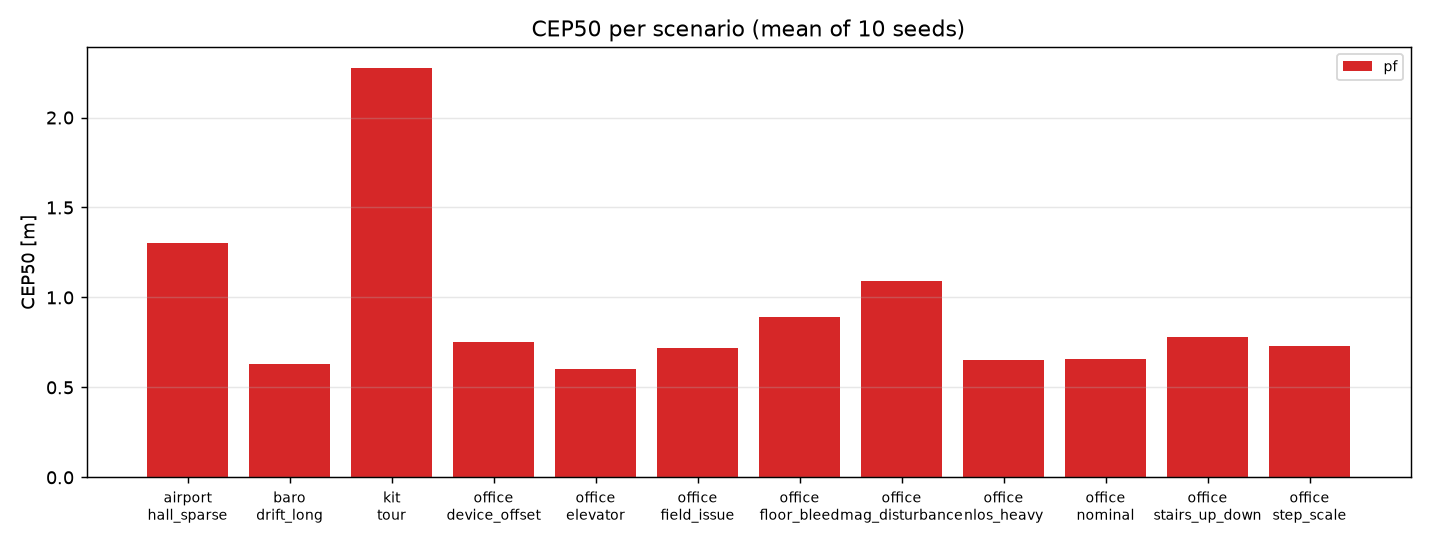
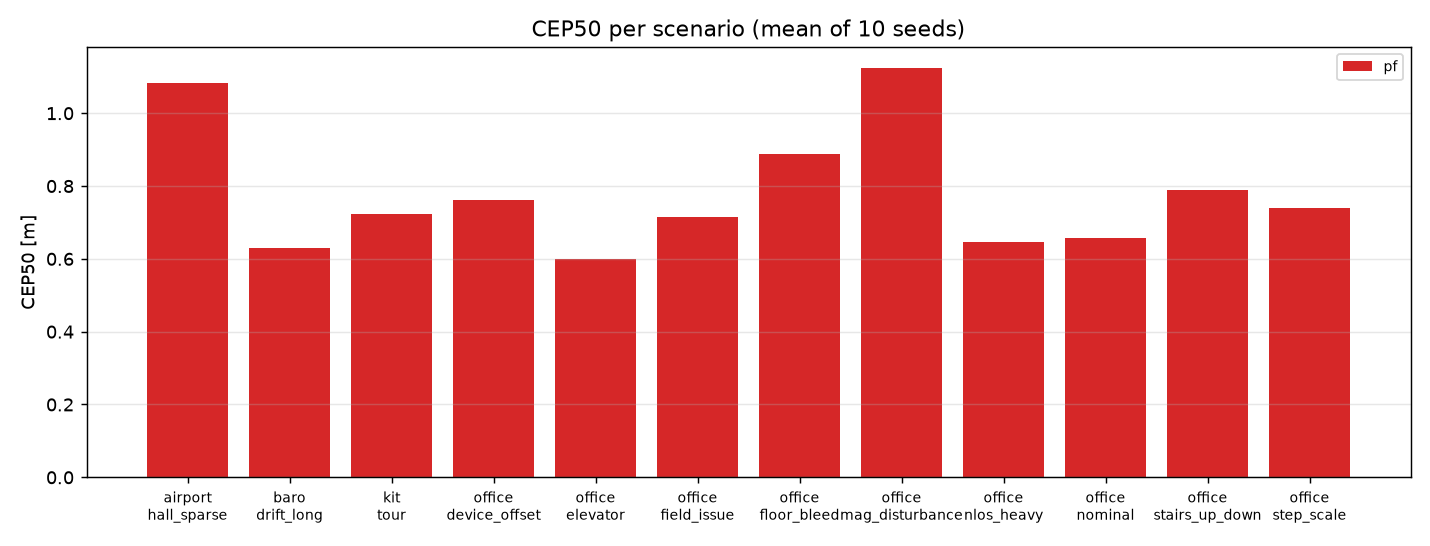
Turn the beacon-driven start on by itself when the cloud is sparse
pf.init_proposal_auto_density (default 0.6): with init_proposal off, the
init proposal is used when there are fewer than 0.6 particles per m^2 of
walkable area over all levels. Small offices (0.78-1.56 per m^2) keep the
uniform start that suits them; the airport hall (0.47) and KIT (0.09) get
the ring seed.

10 seeds: airport_hall_sparse CEP50/CEP95 1.30/7.26 -> 1.08/5.71 m and
convergence 70.5 -> 47.9 s; kit_tour 2.31/11.11 -> 0.72/3.52 m, 10/10
runs converge, floor accuracy 93.9 -> 98.9%. Every other scenario is
unchanged. Default config on the real tune walks: MSIL median
20.4/28.5 -> 9.6/12.5 m, UMinho 17.9/36.7 -> 13.8/22.4 m. msil_wifi.json
and ipin.json already set init_proposal, so the real-data gates are
unaffected.

tests/regression/baseline.json is regenerated to lock in the gains; it
also picks up the small moves of the floor hysteresis and track smoother
(all within the old tolerance) and the new ungated smoothness fields.

diff --git a/eval/src/eval.cpp b/eval/src/eval.cpp
@@ -25,11 +25,11 @@ NLOHMANN_DEFINE_TYPE_NON_INTRUSIVE_WITH_DEFAULT(
     heading_outlier_prob, map_consistent_estimate, level_smoothing_s, level_hysteresis, estimate_rssi_offset,
     rssi_offset_sigma, rssi_offset_walk, beacon_integrity, integrity_threshold_db, integrity_alpha,
     integrity_min_samples, integrity_max_sigma_m, resample_ess_ratio, roughening_m, recovery, recovery_alpha_slow,
-    recovery_alpha_fast, recovery_max_fraction, init_proposal, init_proposal_fraction, init_window_s, recovery_proposal,
-    proposal_history, proposal_max_age_s, proposal_level_jump, level_change_prob_step, level_change_prob_baro,
-    baro_update_interval_s, baro_sigma_m, baro_outlier_prob, baro_offset_sigma_m, baro_offset_walk_m, baro_jump,
-    baro_jump_radius_m, baro_jump_hold_s, baro_jump_prob, baro_reseed_keep_reference, floor_prior_weight, floor_prior_k,
-    floor_prior_eps, floor_prior_max_age_s)
+    recovery_alpha_fast, recovery_max_fraction, init_proposal, init_proposal_auto_density, init_proposal_fraction,
+    init_window_s, recovery_proposal, proposal_history, proposal_max_age_s, proposal_level_jump, level_change_prob_step,
+    level_change_prob_baro, baro_update_interval_s, baro_sigma_m, baro_outlier_prob, baro_offset_sigma_m,
+    baro_offset_walk_m, baro_jump, baro_jump_radius_m, baro_jump_hold_s, baro_jump_prob, baro_reseed_keep_reference,
+    floor_prior_weight, floor_prior_k, floor_prior_eps, floor_prior_max_age_s)
 NLOHMANN_DEFINE_TYPE_NON_INTRUSIVE_WITH_DEFAULT(TrackSmootherConfig, enabled, tau_s, max_correction_mps, snap_m,
                                                 extrapolate_steps, max_step_interval_s)
 NLOHMANN_DEFINE_TYPE_NON_INTRUSIVE_WITH_DEFAULT(RoomEventConfig, enter_prob, exit_prob, enter_dwell_s, exit_dwell_s,

diff --git a/core/include/ipe/particle_filter.hpp b/core/include/ipe/particle_filter.hpp
@@ -69,6 +69,10 @@ struct ParticleFilterConfig {
   /// mixture of a range ring around that beacon and the uniform prior, with
   /// importance weights so the result is still the exact posterior.
   bool init_proposal = false;
+  /// With `init_proposal` off, turn it on anyway when the cloud is sparse: fewer than this many particles
+  /// per m^2 of walkable area (all levels together). A uniform start samples a small walled office well,
+  /// but not a hall or a mall floor. 0 never turns it on.
+  double init_proposal_auto_density = 0.6;
   double init_proposal_fraction = 0.8;  ///< Share of particles drawn from the ring.
   double init_window_s = 1.0;           ///< Packets collected before seeding; the closest-looking beacon wins.
   /// Recovery injections are drawn from the ring of a recent packet instead
@@ -134,6 +138,8 @@ class ParticleFilter {
   [[nodiscard]] std::uint64_t recovery_count() const { return recovery_count_; }
   [[nodiscard]] bool beacon_excluded(std::size_t beacon_index) const;
   [[nodiscard]] bool radio_seeded() const { return radio_seeded_; }
+  /// Whether the init proposal is in use (`init_proposal`, or chosen by `init_proposal_auto_density`).
+  [[nodiscard]] bool init_proposal_active() const { return cfg_.init_proposal; }
 
   /// Replaces the cloud with draws from the init proposal for one packet and
   /// importance-weights them back to the prior. The packet's likelihood is not

diff --git a/tests/test_particle_filter.cpp b/tests/test_particle_filter.cpp
@@ -572,3 +572,22 @@ TEST(ParticleFilter, FloorPriorPullsTheCloudToTheClassifiedLevel) {
   EXPECT_LT(share[0], 0.01);
   EXPECT_GT(share[1], 1000.0 * share[0]);
 }
+
+TEST(ParticleFilter, InitProposalTurnsOnForSparseClouds) {
+  // two_room_venue: 200 m^2. The two-level venue counts both floors: 400 m^2.
+  const Venue v = test::two_room_venue();
+  const Venue two = test::two_level_venue();
+  auto cfg = test_config();
+  cfg.init_proposal_auto_density = 0.6;
+  cfg.num_particles = 100;  // 0.5 per m^2
+  EXPECT_TRUE(ParticleFilter(v, cfg, {}).init_proposal_active());
+  cfg.num_particles = 200;  // 1.0 per m^2 here, 0.5 per m^2 over both floors
+  EXPECT_FALSE(ParticleFilter(v, cfg, {}).init_proposal_active());
+  EXPECT_TRUE(ParticleFilter(two, cfg, {}).init_proposal_active());
+  cfg.init_proposal_auto_density = 0.0;
+  cfg.num_particles = 10;
+  EXPECT_FALSE(ParticleFilter(v, cfg, {}).init_proposal_active());
+  cfg.init_proposal = true;  // set explicitly, on whatever the density
+  cfg.num_particles = 5000;
+  EXPECT_TRUE(ParticleFilter(v, cfg, {}).init_proposal_active());
+}

diff --git a/core/src/particle_filter.cpp b/core/src/particle_filter.cpp
@@ -33,6 +33,11 @@ ParticleFilter::ParticleFilter(const Venue& venue, ParticleFilterConfig cfg, Rss
       level_selector_(cfg.level_smoothing_s, cfg.level_hysteresis) {
   floor_p_.assign(static_cast<std::size_t>(std::max(venue.level_count(), 1)), 1.0);
   cfg_.num_particles = std::max(cfg_.num_particles, 1);
+  if (!cfg_.init_proposal && cfg_.init_proposal_auto_density > 0.0) {
+    double area = 0.0;
+    for (int l = 0; l < venue.level_count(); ++l) area += venue.walkable_area(l);
+    cfg_.init_proposal = area > 0.0 && cfg_.num_particles / area < cfg_.init_proposal_auto_density;
+  }
   level_weight_.resize(static_cast<std::size_t>(std::max(venue.level_count(), 1)));
   if (cfg_.map_consistent_estimate) map_estimate_.emplace(venue, static_cast<std::size_t>(cfg_.num_particles));
   initialize_uniform();

diff --git a/README.md b/README.md
@@ -20,7 +20,7 @@ WebAssembly build that runs the same engine in the browser with a 2D and a 3D (M
 | **Floors** | Venues with levels, stairwells, lifts and escalators; 3D radio distance with slab loss; barometric altitude with low-pass filtering; floor accuracy and floor-switch latency metrics |
 | **Room events** | Named rooms on every shipped map (hand-drawn, from OpenStreetMap, from the mall unit polygons); debounced Enter/Exit events from particle mass in each room, with hysteresis and dwell; scored against ground truth (precision, recall, latency, room accuracy); event log and room highlight in the web demo |
 | **Simulator** | Pure-pursuit walker through a floor plan, up stairs and in lifts; synthesises 50 Hz IMU, BLE with fading, shadowing, wall and slab loss, path-loss mismatch, device offsets, packet loss, magnetic anomalies, dead and moved beacons, and a phone barometer with weather drift, device bias and door spikes |
-| **Replay + metrics** | Mean, RMSE, CEP50, CEP95, availability, time to first fix, convergence time, floor accuracy, floor-switch latency, room-event precision/recall/latency, compute per update |
+| **Replay + metrics** | Mean, RMSE, CEP50, CEP95, availability, time to first fix, convergence time, floor accuracy, floor-switch latency, room-event precision/recall/latency, smoothness of the drawn track (jitter, jumps per minute, floor flips, path ratio), compute per update |
 | **Regression suite** | 12 scenarios x N seeds compared against a stored baseline in CI, plus 109 real phone walks when the dataset is present |
 | **Map interop** | `ipe-import`: GeoJSON (any platform, through a property mapping table) and an IMDF subset in and out, with WGS84 georeferencing |
 | **WebAssembly** | Emscripten/embind build of the unchanged core with a 2D canvas and a 3D MapLibre view, deployed to GitHub Pages |
@@ -33,13 +33,13 @@ sensor update (IMU and BLE averaged) on a desktop CPU. Full table: [docs/results
 
 | Scenario | What it stresses | CEP50 / CEP95 [m] |
 |---|---|---|
-| office_nominal | reference walk | 0.66 / 1.59 |
-| office_nlos_heavy | walls lose 7 dB, map says 3.5 | 0.65 / 1.87 |
-| office_device_offset | phone reads 9 dB low | 0.75 / 2.05 |
-| office_mag_disturbance | magnetic anomalies, gyro bias | 1.09 / 2.60 |
-| office_field_issue | 2 dead beacons, 1 installed 16 m off | 0.72 / 1.98 |
-| office_step_scale | walker's step 17% shorter than modelled | 0.73 / 1.87 |
-| airport_hall_sparse | 80 x 40 m hall, beacons 20 m apart, 35% loss | 1.30 / 7.25 |
+| office_nominal | reference walk | 0.66 / 1.58 |
+| office_nlos_heavy | walls lose 7 dB, map says 3.5 | 0.65 / 1.88 |
+| office_device_offset | phone reads 9 dB low | 0.76 / 2.08 |
+| office_mag_disturbance | magnetic anomalies, gyro bias | 1.13 / 2.65 |
+| office_field_issue | 2 dead beacons, 1 installed 16 m off | 0.71 / 1.98 |
+| office_step_scale | walker's step 17% shorter than modelled | 0.74 / 1.88 |
+| airport_hall_sparse | 80 x 40 m hall, beacons 20 m apart, 35% loss | 1.08 / 5.71 |
 
 ![CEP95 per scenario](docs/img/benchmark_cep95.png)
 
@@ -51,10 +51,10 @@ between the walker reaching the new floor and the estimate following (10 seeds e
 
 | Scenario | What it stresses | CEP50 / CEP95 [m] | Floor ok / switch |
 |---|---|---|---|
-| office_stairs_up_down | stairs up, tour, stairs down | 0.78 / 3.21 | 99.5% / 0.4 s |
-| office_elevator | lift rides: no steps, only pressure changes | 0.60 / 1.76 | 99.5% / 0.4 s |
-| office_floor_bleed | slab loses 4 dB (map says 15): beacons below look close | 0.89 / 4.01 | 96.3% / 1.0 s |
-| baro_drift_long | weather trend -6 hPa/h, phone barometer 2.5 hPa off | 0.63 / 1.99 | 99.5% / 0.4 s |
+| office_stairs_up_down | stairs up, tour, stairs down | 0.79 / 3.26 | 98.9% / 0.8 s |
+| office_elevator | lift rides: no steps, only pressure changes | 0.60 / 1.72 | 99.0% / 0.8 s |
+| office_floor_bleed | slab loses 4 dB (map says 15): beacons below look close | 0.89 / 3.90 | 96.6% / 2.5 s |
+| baro_drift_long | weather trend -6 hPa/h, phone barometer 2.5 hPa off | 0.63 / 1.99 | 99.1% / 0.8 s |
 
 The barometer offset each particle carries is what keeps it right under weather drift: a 6 hPa/h trend is
 50 m of apparent altitude per hour, and the filter still reports the right floor 99.5% of the time. On the
@@ -82,13 +82,14 @@ not work and the ablation of that cost, is in [docs/experiments.md](docs/experim
 
 ### Beacon-driven start for open halls
 
-In the airport hall, the filter took ~70 s to converge from a uniform start over 3200 m^2. An opt-in
-proposal seeds the cloud from a range ring around the closest-looking beacon, with importance weights
-so the posterior is unchanged. It cuts convergence to 41 s and CEP95 from 7.3 to 5.4 m (20 seeds),
-and helps the two-floor walks. In the small walled offices it slows convergence by a few seconds, so
-it is not on by default. [`data/configs/open_venue.json`](data/configs/open_venue.json) enables it; the
-numbers, the ablation and the variants that failed are experiment 4 in
-[docs/experiments.md](docs/experiments.md).
+In the airport hall, the filter took ~70 s to converge from a uniform start over 3200 m^2. A proposal
+seeds the cloud from a range ring around the closest-looking beacon, with importance weights so the
+posterior is unchanged. It cuts convergence to 41 s and CEP95 from 7.3 to 5.4 m (20 seeds). In the small
+walled offices, where 1500 particles already cover the floor densely, it slows convergence by a few
+seconds. So the filter turns it on by itself when the cloud is sparse, under 0.6 particles per m^2 of
+walkable area (`pf.init_proposal_auto_density`): the airport hall and the KIT building, not the offices
+(experiments 4 and 9 in [docs/experiments.md](docs/experiments.md)).
+[`data/configs/open_venue.json`](data/configs/open_venue.json) turns it on everywhere.
 
 ### Real phone traces
 
@@ -135,13 +136,13 @@ plan, checked by `ipe-sim` for wall crossings), and the phone is simulated. Mean
 
 | Particle filter | CEP50 / CEP95 [m] | Converged |
 |---|---|---|
-| Default config | 2.28 / 11.02 | 9/10 |
-| [Open-venue config](data/configs/open_venue.json) (beacon-driven start) | **0.71** / **3.44** | 10/10 |
+| Before the automatic beacon-driven start (experiment 9) | 2.28 / 11.02 | 9/10 |
+| Default config (beacon-driven start, chosen by particle density) | **0.72** / **3.52** | 10/10 |
 
 The L-shaped building covers 38% of its bounding box. The building outline is the venue's
 [`footprint`](docs/formats.md#venue-datavenuesjson), so the particle filter starts, recovers and keeps
-particles only inside it. With the open-venue config every run converges (CEP50 0.5-1.0 m, CEP95
-1.6-6.9 m). Before the footprint, particles were drawn anywhere in the bounds. Then 3 of 10 runs locked
+particles only inside it. With the beacon-driven start every run converges (CEP50 0.5-1.1 m, CEP95
+1.7-7.0 m). Before the footprint, particles were drawn anywhere in the bounds. Then 3 of 10 runs locked
 onto a spot up to 61 m away, outside the building, and the outline walls kept them there: CEP50 2.68 m and
 CEP95 14.60 m, and the default PF reached 2.94 / 29.16 m. The synthetic venues fill their bounds and have
 no footprint, so their results are bit-identical. The web demo plays this walk with the open-venue config.

diff --git a/docs/experiments.md b/docs/experiments.md
@@ -322,11 +322,53 @@ Real tune walks:
 once per step. Extrapolation would fix that if the step timing were known better; for now it is a setting
 (`smoothing.extrapolate_steps`).
 
+## 9. Choosing the beacon-driven start automatically
+
+**Question.** Experiment 4 left the init proposal opt-in. It fixes large venues and slows small walled
+offices. Can the filter tell the two apart by itself?
+
+**Change.** `pf.init_proposal_auto_density`: with `init_proposal` off, the proposal is used when the
+cloud has fewer than this many particles per m^2 of walkable area, all levels together. The reasoning in
+experiment 4 was that 1500 particles over a 40 x 24 m office (1.56 per m^2) already sample a uniform
+start well. The shipped venues:
+- 1.56 per m^2: the single-floor offices;
+- 0.78: the two-floor offices;
+- 0.47: the airport hall;
+- 0.09: KIT, 7 levels;
+- well below 0.5: the malls and the IPIN buildings at 1500 particles.
+
+**Results** (10 seeds; the other scenarios are identical at both thresholds because they stay above them):
+
+| Scenario | off | 0.6 per m^2 | 1.0 per m^2 |
+|---|---:|---:|---:|
+| airport_hall_sparse, CEP50 / CEP95, converged | 1.30 / 7.26, 70.5 s | **1.08 / 5.71, 47.9 s** | same as 0.6 |
+| kit_tour | 2.31 / 11.11, 9/10 runs, floor 93.9% | **0.72 / 3.52, 10/10, floor 98.9%** | same as 0.6 |
+| baro_drift_long | 0.63 / 1.99 | (off) | 0.61 / 1.70 |
+| office_stairs_up_down | 0.79 / 3.26 | (off) | 0.71 / 2.41 |
+| office_elevator | 0.60 / 1.72 | (off) | 0.74 / 2.76 |
+| office_floor_bleed | 0.89 / 3.90 | (off) | 0.99 / 5.25 |
+
+At 1.0 the two-floor offices split, as they did in experiment 4. At 0.6 only the two large venues change,
+and both gain a lot. KIT gets the same numbers as `open_venue.json`.
+
+Real tune walks with the default config (no `--config`, 1500 particles; median CEP50 / CEP95 [m]):
+
+| Data | off | 0.6 per m^2 |
+|---|---:|---:|
+| MSIL, 109 walks | 20.38 / 28.45 | 9.61 / 12.50 |
+| IPIN Nuremberg, 4 walks | 6.91 / 23.09 | 5.74 / 24.13 (mean CEP95 21.3 -> 30.7) |
+| IPIN UMinho, 23 walks | 17.89 / 36.66 | 13.82 / 22.44 |
+
+`msil_wifi.json` and `ipin.json` already set `init_proposal`, so the real-data gates do not change.
+
+**Kept.** 0.6 particles per m^2 by default. With two venue types above the threshold and two below it,
+this is still a coarse rule: a venue between 0.6 and 1.0 (a large two-floor office, for example) gets
+the uniform start, which experiment 4 found mixed there.
+
 ## Open questions
 
-- The beacon-driven init proposal (experiment 4) fixes the airport hall but slows small walled offices.
-  Choosing it automatically, for example from particle density per level or from the ring's share of
-  the venue, needs more than two venue types to tune on without overfitting. A wall-aware ring
-  (rejection sampling against the full likelihood) is the other candidate.
+- The beacon-driven init proposal is now chosen by particle density (experiment 9), but venues between
+  0.6 and 1 particle per m^2 are where it is mixed. A wall-aware ring (rejection sampling against the
+  full likelihood) might remove the office cost and let it be on everywhere.
 - `office_nlos_heavy`: the wall-aware model assumes 3.5 dB per wall while the truth is 7 dB; estimating
   wall loss online (per venue) is a natural next state to add.

diff --git a/docs/results.md b/docs/results.md
@@ -1,14 +1,14 @@
 | Scenario | Filter | Mean [m] | CEP50 [m] | CEP95 [m] | Coverage95 | Converged in [s] | Floor ok | Floor switch [s] | Floor flips / changes | Jitter p95 [m] | Jumps/min | Path ratio | us/update |
 |---|---|---:|---:|---:|---:|---:|---:|---:|---:|---:|---:|---:|---:|
-| airport_hall_sparse | pf | 2.47 | 1.30 | 7.26 | 67% | 70.5 | - | - | - | 0.85 | 0.7 | 1.25 | 37.0 |
-| baro_drift_long | pf | 0.82 | 0.63 | 1.99 | 85% | 13.2 | 99.1% | 0.8 | 4.4 / 4.0 | 0.77 | 1.3 | 1.49 | 79.8 |
-| kit_tour | pf | 3.63 | 2.31 | 11.11 | 51% | 43.6 (9/10) | 93.9% | 0.9 | 4.4 / 3.0 | 1.81 | 3.7 | 2.18 | 117.8 |
-| office_device_offset | pf | 0.94 | 0.76 | 2.08 | 80% | 6.0 | - | - | - | 0.79 | 0.4 | 1.17 | 43.3 |
-| office_elevator | pf | 0.76 | 0.60 | 1.72 | 89% | 1.3 | 99.0% | 0.8 | 2.0 / 2.0 | 0.79 | 1.5 | 1.71 | 75.4 |
-| office_field_issue | pf | 0.88 | 0.71 | 1.98 | 84% | 2.9 | - | - | - | 0.87 | 0.6 | 1.31 | 59.2 |
-| office_floor_bleed | pf | 1.30 | 0.89 | 3.90 | 79% | 8.0 | 96.6% | 2.5 | 3.8 / 2.0 | 2.33 | 3.8 | 2.37 | 93.5 |
-| office_mag_disturbance | pf | 1.26 | 1.13 | 2.65 | 62% | 4.3 | - | - | - | 0.87 | 0.9 | 1.39 | 70.1 |
-| office_nlos_heavy | pf | 0.77 | 0.65 | 1.88 | 88% | 2.6 | - | - | - | 0.82 | 0.5 | 1.25 | 48.7 |
-| office_nominal | pf | 0.75 | 0.66 | 1.58 | 86% | 1.7 | - | - | - | 0.81 | 0.3 | 1.19 | 68.8 |
-| office_stairs_up_down | pf | 1.12 | 0.79 | 3.26 | 76% | 11.6 | 98.9% | 0.8 | 2.0 / 2.0 | 0.80 | 1.7 | 1.57 | 80.7 |
-| office_step_scale | pf | 0.85 | 0.74 | 1.88 | 80% | 2.1 | - | - | - | 0.79 | 0.1 | 1.29 | 69.1 |
+| airport_hall_sparse | pf | 1.97 | 1.08 | 5.71 | 75% | 47.9 | - | - | - | 0.83 | 0.5 | 1.22 | 37.1 |
+| baro_drift_long | pf | 0.82 | 0.63 | 1.99 | 85% | 13.2 | 99.1% | 0.8 | 4.4 / 4.0 | 0.77 | 1.3 | 1.49 | 79.5 |
+| kit_tour | pf | 1.13 | 0.72 | 3.52 | 74% | 15.4 | 98.9% | 0.8 | 3.0 / 3.0 | 0.77 | 1.4 | 1.38 | 118.2 |
+| office_device_offset | pf | 0.94 | 0.76 | 2.08 | 80% | 6.0 | - | - | - | 0.79 | 0.4 | 1.17 | 43.4 |
+| office_elevator | pf | 0.76 | 0.60 | 1.72 | 89% | 1.3 | 99.0% | 0.8 | 2.0 / 2.0 | 0.79 | 1.5 | 1.71 | 75.5 |
+| office_field_issue | pf | 0.88 | 0.71 | 1.98 | 84% | 2.9 | - | - | - | 0.87 | 0.6 | 1.31 | 59.5 |
+| office_floor_bleed | pf | 1.30 | 0.89 | 3.90 | 79% | 8.0 | 96.6% | 2.5 | 3.8 / 2.0 | 2.33 | 3.8 | 2.37 | 93.2 |
+| office_mag_disturbance | pf | 1.26 | 1.13 | 2.65 | 62% | 4.3 | - | - | - | 0.87 | 0.9 | 1.39 | 70.0 |
+| office_nlos_heavy | pf | 0.77 | 0.65 | 1.88 | 88% | 2.6 | - | - | - | 0.82 | 0.5 | 1.25 | 48.9 |
+| office_nominal | pf | 0.75 | 0.66 | 1.58 | 86% | 1.7 | - | - | - | 0.81 | 0.3 | 1.19 | 69.3 |
+| office_stairs_up_down | pf | 1.12 | 0.79 | 3.26 | 76% | 11.6 | 98.9% | 0.8 | 2.0 / 2.0 | 0.80 | 1.7 | 1.57 | 80.6 |
+| office_step_scale | pf | 0.85 | 0.74 | 1.88 | 80% | 2.1 | - | - | - | 0.79 | 0.1 | 1.29 | 68.7 |

diff --git a/docs/design.md b/docs/design.md
@@ -67,13 +67,16 @@ State per particle: position, heading, step-length scale, device RSSI offset.
 - **Recovery**: augmented MCL (`w_slow`/`w_fast`) injects up to 5% uniform particles when the short-term
   likelihood falls below the long-term one. If every particle dies, the cloud is re-seeded around the last
   estimate.
-- **Beacon-driven proposal** (opt-in, `init_proposal` / `recovery_proposal`): after a 1 s collection
+- **Beacon-driven proposal** (`init_proposal` / `recovery_proposal`): after a 1 s collection
   window, the packet with the shortest apparent range re-seeds the cloud. 80% of the particles come from a
   ring around that beacon, with log-range normal around the inverted path-loss model for each particle's
   device offset; 20% stay uniform. Weights are prior/proposal, computed analytically. Draws that leave
   the venue are rejected jointly with their offset (up to 4 tries), so one acceptance rate normalises
-  the truncated ring. Recovery can draw from the ring of a recent packet instead of uniformly. Off by
-  default because it slows convergence in small walled venues (experiment 4).
+  the truncated ring. Recovery can draw from the ring of a recent packet instead of uniformly. The init
+  proposal slows convergence in small walled venues (experiment 4), so it turns itself on only when the
+  cloud is sparse: under `init_proposal_auto_density` (0.6) particles per m^2 of walkable area, all
+  levels together (experiment 9). `init_proposal: true` turns it on everywhere; the recovery proposal is
+  opt-in.
 - **Beacon integrity monitor**: once converged, keeps an exponential average of each beacon's RSSI
   residual at the estimate and stops using beacons whose bias exceeds 10 dB (re-admitted below 5 dB, never
   more than a third of the beacons).
